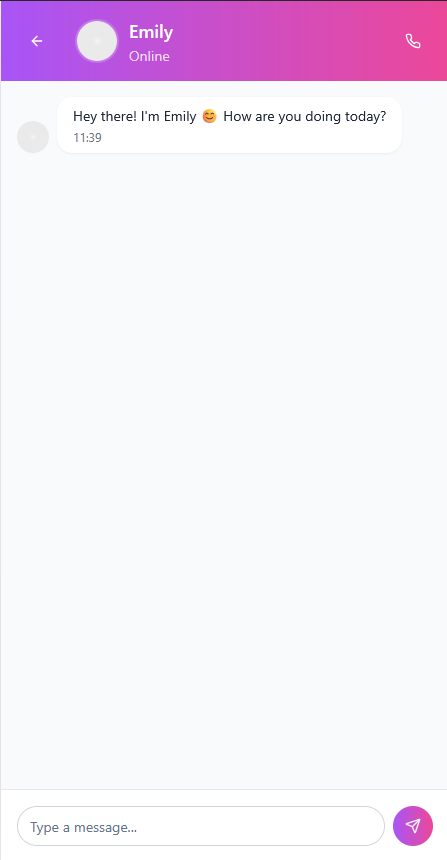
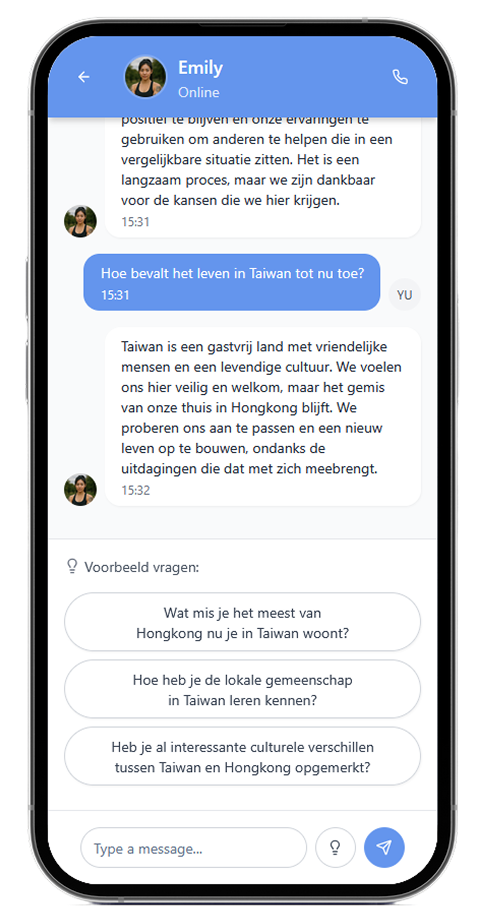
added images

diff --git a/story/README.md b/story/README.md
@@ -2,6 +2,10 @@
 
 An immersive web application that tells the stories of people around the world who have faced human rights challenges, in the form of a social media story. For the prototype, users can select from a set of video subjects. Then they can watch the narratives unfold with subtitles, and click between sections at their desire.
 
+![Story app UI](readne-images/story.jpg)
+
+[Link naar het online prototype](https://project-emily-prototypes-flame.vercel.app/)
+
 ## Features
 
 - **Multiple Stories**: A set of three fully developed stories to watch

diff --git a/chat-interface/README.md b/chat-interface/README.md
@@ -2,6 +2,8 @@
 
 A modern web application that lets users chat and call with virtual personas who have lived through human rights challenges. The interface is inspired by popular messaging apps, making it accessible and familiar. Users can select a persona, send messages, receive AI-powered responses, and simulate calls—all in a safe, privacy-conscious environment.
 
+![Chat UI](readme-images/chat.png)
+
 [Link naar het online prototype](https://project-emily-chat-interface.vercel.app/)
 
 ## Features
